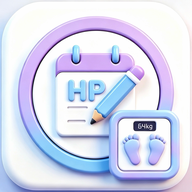
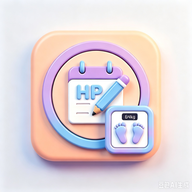
v27: 节日不显示年份;节日加入生日倒计时(岁数显示—);经期历史距离上次/修改/删除列各加2字宽(80px);图标换新

diff --git a/index.html b/index.html
@@ -303,11 +303,13 @@
   .anniv-list-table th:nth-child(5), .anniv-list-table td:nth-child(5) { width: 64px; }
   .anniv-list-table .btn-danger { padding: 4px 8px; font-size: 11px; }
 
-  .period-hist-table { table-layout: fixed; width: auto; min-width: 0; border-collapse: collapse; }
+  .period-hist-table { table-layout: fixed; width: 336px; min-width: 0; border-collapse: collapse; }
   .period-hist-table th, .period-hist-table td { border-bottom: 1px solid var(--border); padding: 10px 4px; font-size: 12px; text-align: center; vertical-align: middle; }
-  /* 修改/删除列 3字=48px */
+  /* 开始日期6字=96, 距离上次/修改/删除各5字=80 */
+  .period-hist-table th:nth-child(1), .period-hist-table td:nth-child(1) { width: 96px; }
+  .period-hist-table th:nth-child(2), .period-hist-table td:nth-child(2),
   .period-hist-table th:nth-child(3), .period-hist-table td:nth-child(3),
-  .period-hist-table th:nth-child(4), .period-hist-table td:nth-child(4) { width: 48px; }
+  .period-hist-table th:nth-child(4), .period-hist-table td:nth-child(4) { width: 80px; }
 
   .weekly-modal-mask {
     position: fixed; inset: 0; background: rgba(61,43,69,0.55);
@@ -1352,8 +1354,13 @@ function anniversarySolarDate(a, yearOffset) {
   return `${year}-${String(target.getMonth()+1).padStart(2,'0')}-${String(target.getDate()).padStart(2,'0')}`;
 }
 
-// 出生日期展示文本
+// 出生日期展示文本（节日不显示年份）
 function birthDateText(a) {
+  if (a.type === 'festival') {
+    if (a.cal === 'lunar' && a.lm && a.ld) return `${LUNAR_MONTH[a.lm-1]}月${LUNAR_DAY[a.ld-1]}`;
+    const d = parseDate(a.date);
+    return `${d.getMonth()+1}月${d.getDate()}日`;
+  }
   if (a.cal === 'lunar' && a.lunarText) return a.lunarText;
   const d = parseDate(a.date);
   return `${d.getFullYear()}年${d.getMonth()+1}月${d.getDate()}日`;
@@ -1423,7 +1430,13 @@ function renderAnniv() {
   const typeLabels = { anniversary: '每年纪念日', countdown: '倒计时', together: '在一起', birthday: '生日', festival: '节日' };
   const today = todayStr();
   let rows = sorted.map(({ a, info }) => {
-    const dateText = a.cal === 'lunar' && a.lunarText ? a.lunarText : cnDate(a.date);
+    let dateText;
+    if (a.type === 'festival') {
+      if (a.cal === 'lunar' && a.lm && a.ld) dateText = `${LUNAR_MONTH[a.lm-1]}月${LUNAR_DAY[a.ld-1]}`;
+      else { const d = parseDate(a.date); dateText = `${d.getMonth()+1}月${d.getDate()}日`; }
+    } else {
+      dateText = a.cal === 'lunar' && a.lunarText ? a.lunarText : cnDate(a.date);
+    }
     const rawDays = Math.abs(daysBetween(a.date, today));
     return `<tr>
       <td class="anniv-td-name">${a.name}</td>
@@ -1446,7 +1459,7 @@ function renderBirthdayBoard() {
   const empty = document.getElementById('birthdayEmpty');
   if (!tbody) return;
   const bdays = annivs
-    .filter(a => a.type === 'birthday')
+    .filter(a => a.type === 'birthday' || a.type === 'festival')
     .map(a => ({ a, info: getAnnivInfo(a) }))
     .sort((x, y) => x.info.days - y.info.days);
   if (bdays.length === 0) {
@@ -1456,8 +1469,8 @@ function renderBirthdayBoard() {
     tbody.innerHTML = bdays.map(({ a, info }) => `<tr>
       <td style="color:var(--primary);font-weight:700;">${info.days}天</td>
       <td>${a.name}</td>
-      <td style="text-align:center;">${info.age}岁</td>
-      <td style="text-align:center;">${info.birthDateText}</td>
+      <td style="text-align:center;">${a.type === 'festival' ? '—' : info.age + '岁'}</td>
+      <td style="text-align:center;">${birthDateText(a)}</td>
     </tr>`).join('');
   }
 }
